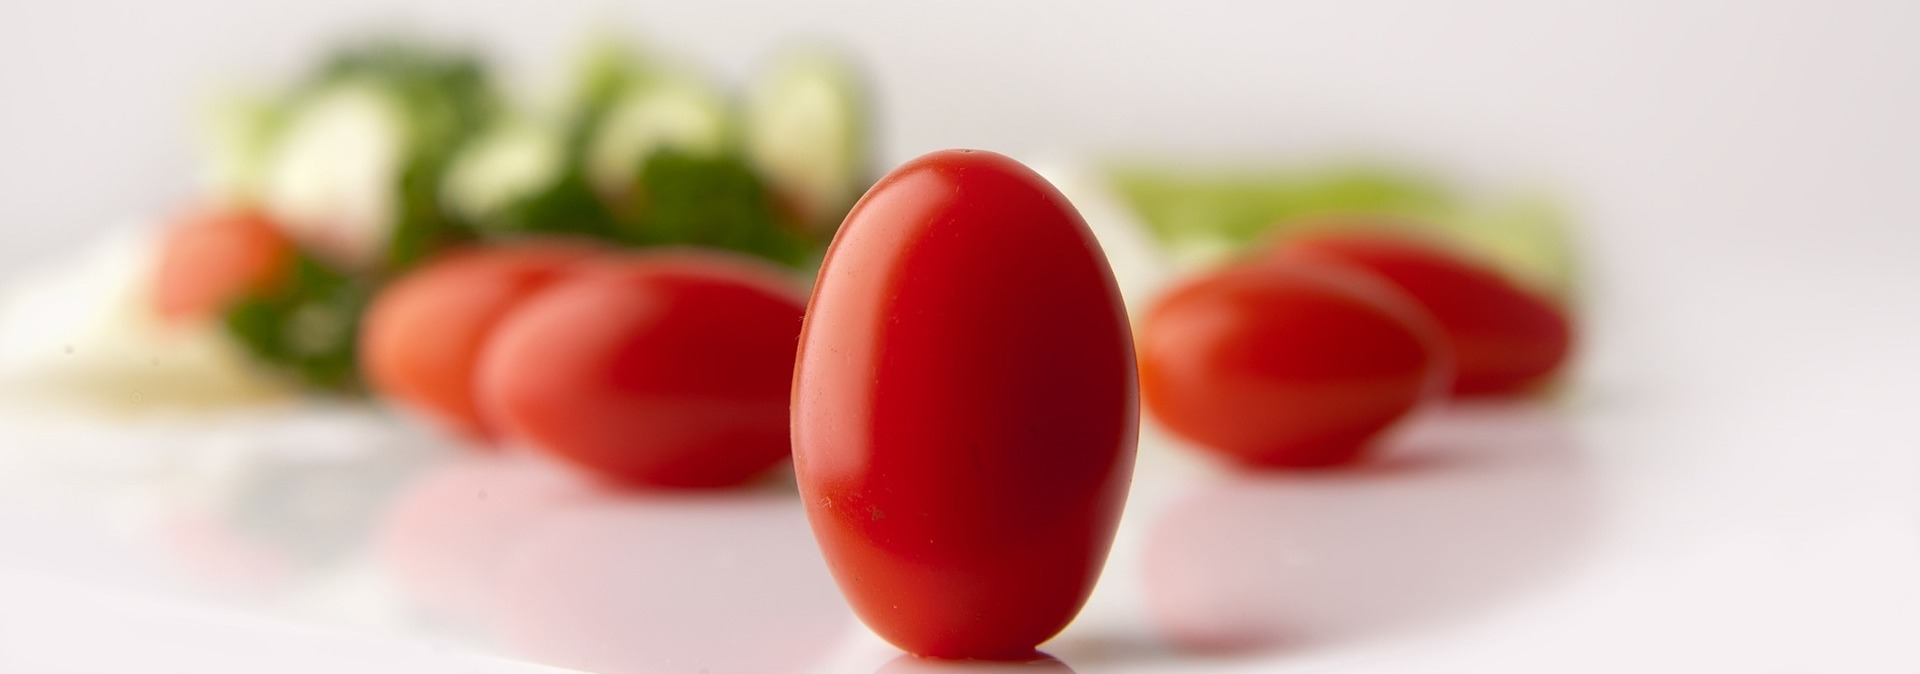
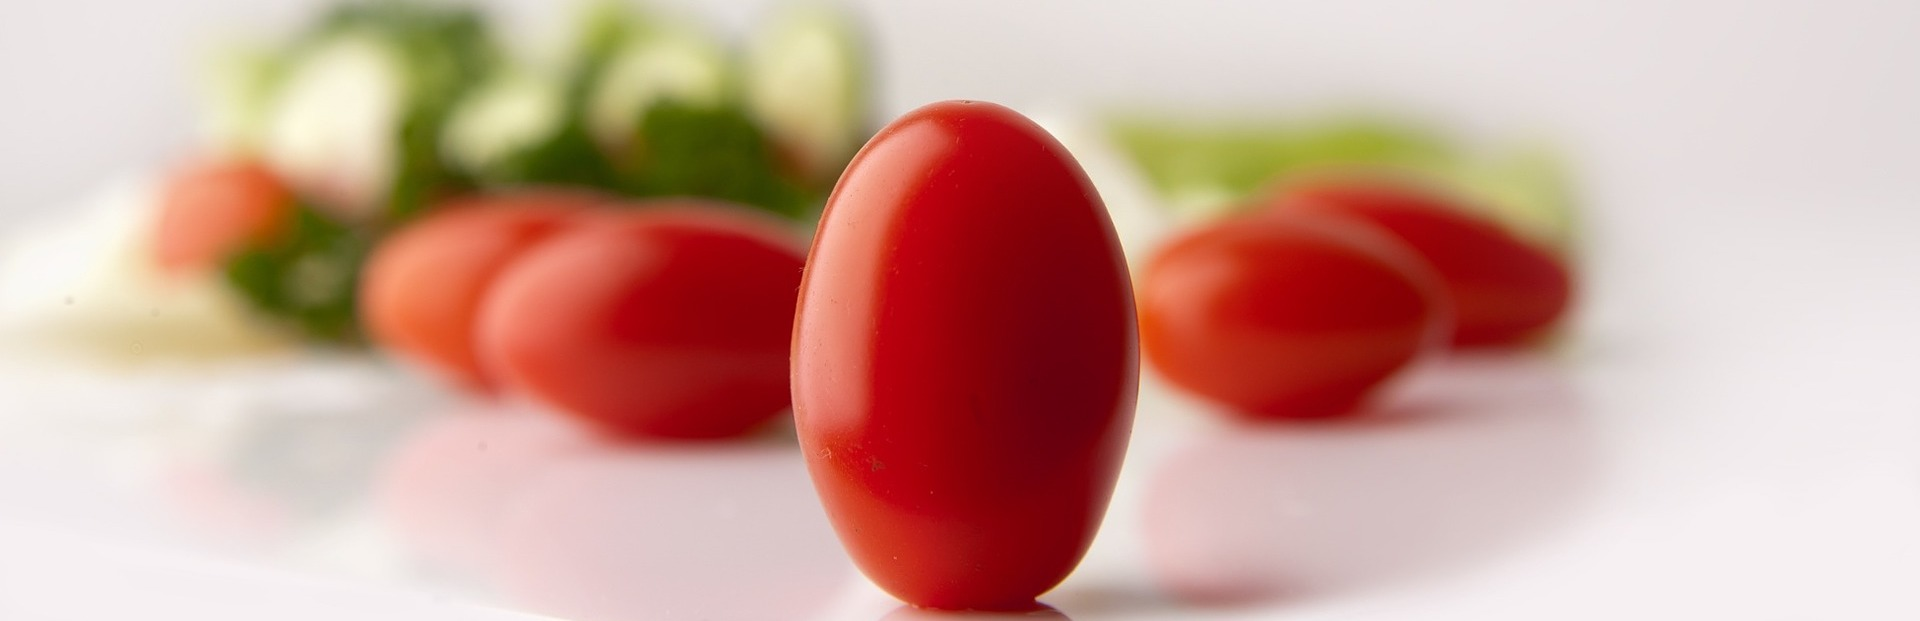
fix save meal btn

diff --git a/client/src/components/pages/Homepage/Homepage.js b/client/src/components/pages/Homepage/Homepage.js
@@ -1,5 +1,6 @@
 import React, { Component } from 'react';
 import './Homepage.css';
+import TomatoImage from '../../../images/tomatoes-646645_1920.jpg';
 
 
 
@@ -7,33 +8,40 @@ class Homepage extends Component {
    render(){
        return (
         <div className="Homepage">
-            <p className="Homepage-slogan">We help our users be calorie-conscious</p>
-            <div className="IngridientList--display">
-                <div style={{marginBottom: '5px', fontWeight: 'bold'}}>Ingridients:</div>
-                {/* <div>Calories per 100 grams:</div> */}
-                { this.props.calorieCount &&
-                    this.props.calorieCount.map(singleIngridient => (
-                        <div className="IngridientList-single">
-                            <p className="IngridientList-single-name">{singleIngridient.name}</p>
-                            <p className="IngridientList-single-calorie">{singleIngridient.kcal}</p>
-                        </div>
-                    ))
-                }
-                <div className="Ingridient-total" style={{fontWeight: 'bold'}}>
-                    <p>Total:</p>
-                    <span>
-                    {
-                        this.props.calorieCount &&
-                        this.props.calorieCount.reduce((totalCalories, element) => totalCalories + Number(element.kcal), 0)
+            <img className="TomatoImage" src={TomatoImage}/>
+            <div className="Homepage-content">
+                <p className="Homepage-slogan">We help our users be calorie-conscious</p>
+                <div className="IngridientList--display">
+                    <div style={{marginBottom: '5px', fontWeight: 'bold', fontSize: '16px'}}>Ingridients:</div>
+                    {/* <div>Calories per 100 grams:</div> */}
+                    { this.props.calorieCount &&
+                        this.props.calorieCount.map(singleIngridient => (
+                            <div className="IngridientList-single">
+                                <p className="IngridientList-single-name">{singleIngridient.name}</p>
+                                <p className="IngridientList-single-calorie">{singleIngridient.kcal}</p>
+                            </div>
+                        ))
                     }
-                    </span> 
-                </div>
-                <div className="userInput">
-                    <input
-                        placeholder="Ingridient"
-                        value={this.props.currentIngridient}
-                        onChange={this.props.onIngridientChange}
-                    /><button className="MainColor" onClick={this.props.getFoodList}>Add</button> 
+                    <div className="Ingridient-total" style={{fontWeight: 'bold'}}>
+                        <p>Total:</p>
+                        <span>
+                        {
+                            this.props.calorieCount &&
+                            this.props.calorieCount.reduce((totalCalories, element) => totalCalories + Number(element.kcal), 0)
+                        }
+                        </span> 
+                    </div>
+                    <div className="UserInput">
+                        <input
+                            className="IngridientInput"
+                            placeholder="Ingridient"
+                            value={this.props.currentIngridient}
+                            onChange={this.props.onIngridientChange}
+                        /><button className="IngridientAdd-btn" onClick={this.props.getFoodList}>Add</button> 
+                    </div>
+                    { this.props.showAccount &&
+                        <button className="SaveMeal-btn" onClick={this.props.handleOpenModal}>Save current meal</button>
+                    }
                 </div>
             </div>
         </div>

diff --git a/client/src/App.css b/client/src/App.css
@@ -1,25 +1,13 @@
 :root {
     --main-color: #FF6347;
-    /* --main-color: #ffa395; */
     --font-grey: #66757F;
     --logo-color: #343232;
 }
 .App {
-    
-    /* background: linear-gradient(to top, #ff00cc, #333399); */
-   /*  background: linear-gradient(to top, #228B22, #333399);
-    /* background: url('https://cdn.shopify.com/s/files/1/1060/9112/products/96_1024x1024.png?v=1526760250') fixed; */
-    /* background: url('https://uhs.berkeley.edu/sites/default/files/styles/openberkeley_brand_widgets_rectangle/public/sos-nutrition-whatseatingyou.jpg?itok=uqiZ3lPh'); */
-   
-    /* background: honeydew; */
-
     min-height: 100vh;
     display: grid;
     grid-template-columns: 20% 1fr 20%;
     grid-template-rows: 50px 1fr 20px;
-    /* grid-row-gap: 10px;
-    grid-column-gap: 10px; */
-    /* align-items: stretch; */
     font-family: 'Roboto', sans-serif;
     color: var(--logo-color);
 }
@@ -32,7 +20,6 @@
     display: grid;
     grid-template-columns: 1fr 1fr 1fr;
     grid-template-rows: 1fr;
-    /* justify-content: space-between; */
     align-items: center;
     justify-items: start;
     cursor: pointer;
@@ -56,8 +43,6 @@
 
 .LogoImage {
     height: 48px;
-    /* margin-top: -3%; */
-    /* align-items: center; */
 }
 
 .App-title {
@@ -68,10 +53,9 @@
 }
 
 .App-navigation a {
-    /* font-size: 14pt; */
+    font-size: 16px;
     text-decoration: none;
     color: white;
-    /* font-weight: bold; */
     text-shadow: 0 0 10px rgba(255, 255, 255, 0.5) inset;
 }
 
@@ -96,17 +80,18 @@ button {
     border-radius: 3px;
     min-width: 50px;
     font-weight: lighter;
-    margin: 5px;
+    margin: 5px 5px 5px 0px;
 }
 
 input {
     font-family: "Roboto", sans-serif;
+    margin-right: 5px;
     /* border-radius: 1px; */
 }
 
 .SaveMeal-btn {
    width: 100%;
-   height: 22px;
+   height: 30px;
    margin-left: 0; 
    margin-right: 0;
 }

diff --git a/client/src/App.js b/client/src/App.js
@@ -216,6 +216,8 @@ class App extends Component {
                 onIngridientChange={this.onIngridientChange}
                 getFoodList={this.getFoodList}
                 calorieCount={this.state.calorieCount}
+                showAccount={this.state.showAccount}
+                handleOpenModal={this.handleCloseModal}
               />)
             } />
               <Route exact path='/account/' render={props => 
@@ -238,10 +240,6 @@ class App extends Component {
               />)
             }/>
           </Switch>  
-        {/* <div> */}
-          { this.state.showAccount &&
-            <button className="MainColor SaveMeal-btn" onClick={this.handleOpenModal}>Save current meal</button>
-          }
             <ReactModal 
                 isOpen={this.state.showModal}
                 style={customStyles}>  
@@ -253,9 +251,8 @@ class App extends Component {
                 />
                 <button className="MainColor" onClick={this.handleCloseModal}>Save</button>  
             </ReactModal>
-        {/* </div> */}
         </div>
-          <footer className="py-3 custom-bg">
+          <footer>
             <p>Copyright &copy; CalorieCache 2020</p>
          </footer> 
       </div>

diff --git a/client/src/components/pages/Homepage/Homepage.css b/client/src/components/pages/Homepage/Homepage.css
@@ -1,16 +1,27 @@
+.Homepage {
+    display: grid;
+    grid-template-rows: 150px 1fr;
+}
+
+.Homepage-content {
+   grid-row: 2; 
+}
+
 .Homepage-slogan {
-    font-size: 24px;
+    font-size: 34px;
 }
 
 .IngridientList-display {
     display: flex;
     flex-direction: column;
+    font-size: 14px;
+    align-content: flex-start;
 }
 
 .IngridientList-single {
+    height: 30px;
     display: grid;
     grid-template-columns: 1fr 1fr;
-    grid-template-rows: 1fr;
     /* justify-content: space-between; */
 }
 
@@ -42,3 +53,27 @@
     justify-self: end;
     align-self: center;
 }
+
+.TomatoImage {
+    position: fixed;
+    float: left;
+    left:0;
+    width: 100%;
+    height: 25%;
+    /* margin-bottom: 30%; */
+    display: block;
+    margin-top: 10px;
+    grid-row: 1;
+}
+
+.UserInput {
+    height: 30px;
+    display: grid;
+    grid-template-columns: 1fr 50px;
+}
+
+.IngridientAdd-btn {
+    margin: 0px;
+}
+
+
